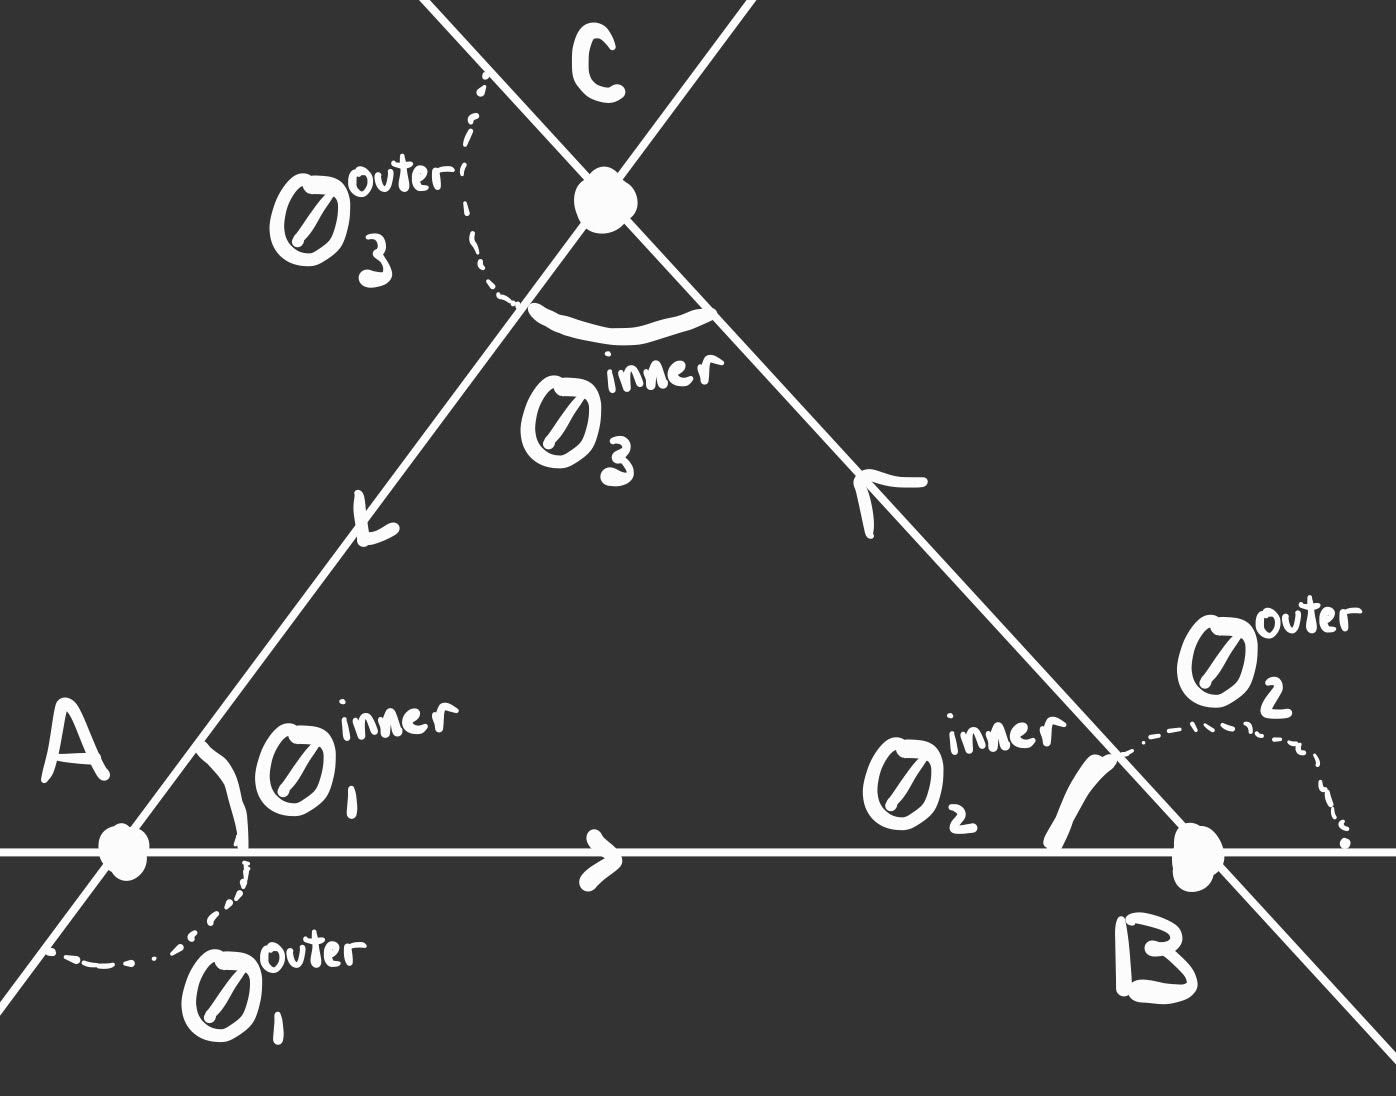
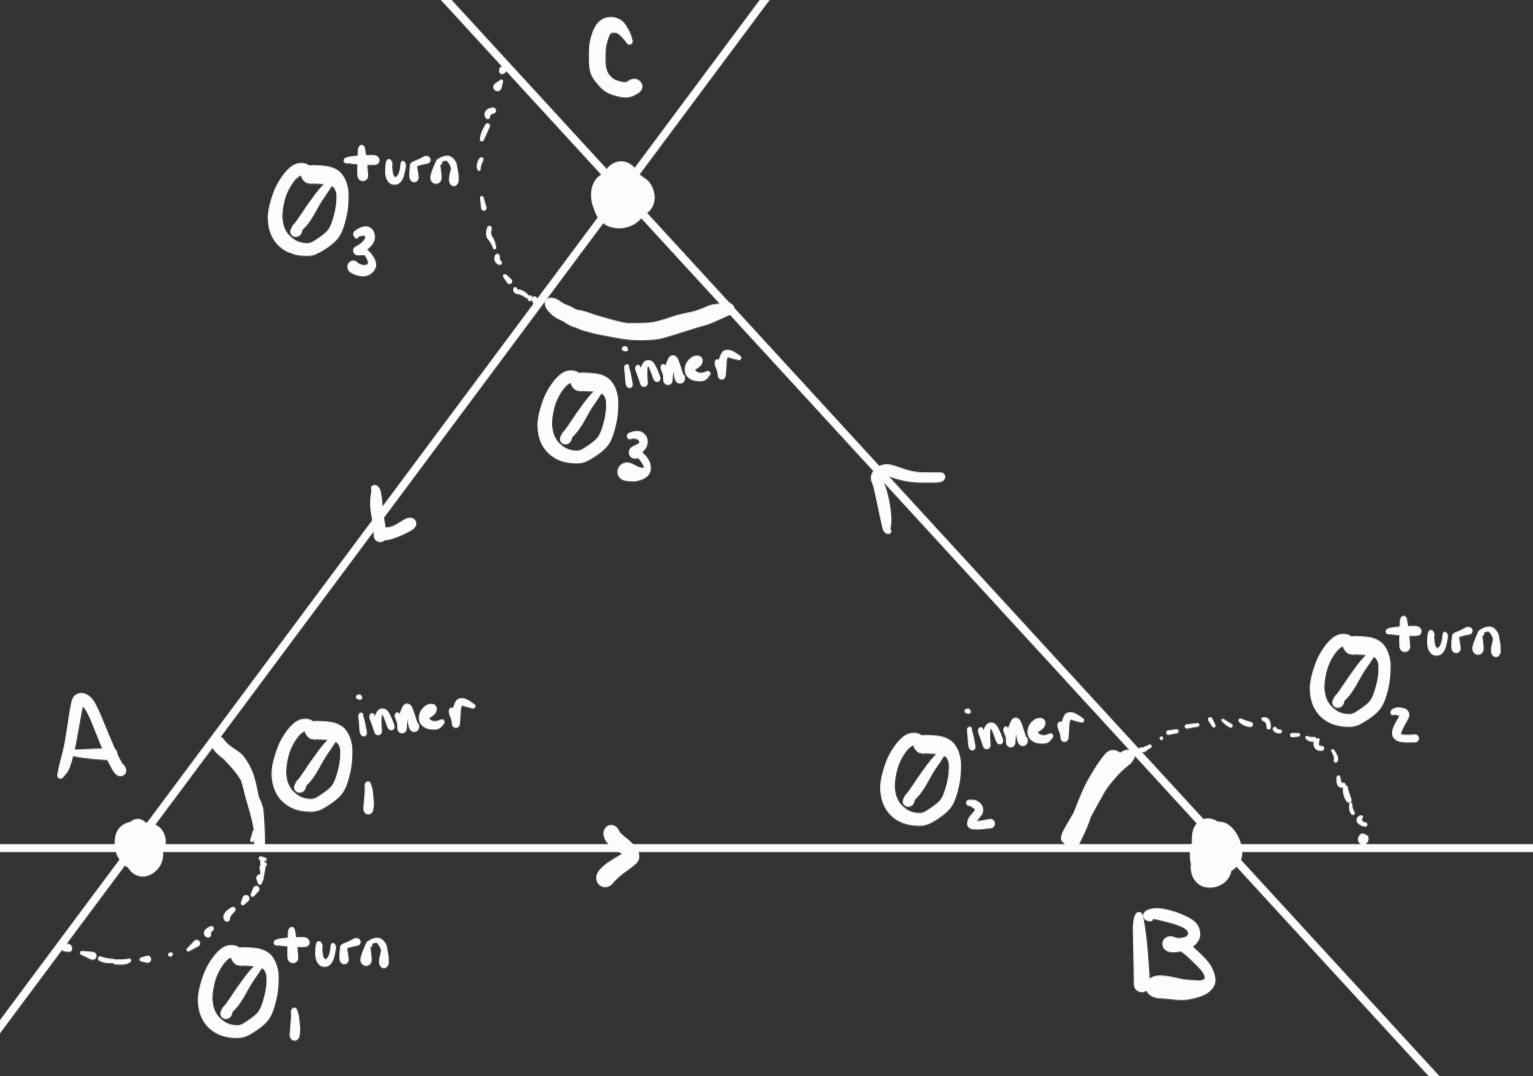
outer to turn angles

diff --git a/content/Math/Sum of inner angles of polygon.md b/content/Math/Sum of inner angles of polygon.md
@@ -19,33 +19,33 @@ First, consider a triangle described by the points $A,B,C$, with respective inne
 
 ![triangle_inner_angles](media/triangle_inner_angles.jpg)
 
-We have also written out the outer angles, $\theta_1^\text{outer}, \theta_2^\text{outer}, \theta_3^\text{outer}$, by extending out the lines of the triangle. The outer and inner angles are supplementary, meaning each pair of inner/outer angles sums to $180$:
+We have also written out the turn angles, $\theta_1^\text{turn}, \theta_2^\text{turn}, \theta_3^\text{turn}$, by extending out the lines of the triangle. The turn and inner angles are supplementary, meaning each pair of inner/turn angles sums to $180$:
 
 $$
 \begin{align}
-\theta_{i}^{\text{inner}} + \theta_{i}^{\text{outer}} &= 180 && \forall i \in \{1,2,3\}  &&& \text{(Def. of supplementary angles)} \\
-\implies \theta_{i}^{\text{outer}} &= 180 - \theta_{i}^{\text{inner}} && \text{(Rearrange equation)}
+\theta_{i}^{\text{inner}} + \theta_{i}^{\text{turn}} &= 180 && \forall i \in \{1,2,3\}  &&& \text{(Def. of supplementary angles)} \\
+\implies \theta_{i}^{\text{turn}} &= 180 - \theta_{i}^{\text{inner}} && \text{(Rearrange equation)}
 \end{align}
 $$
 
-Additionally, we know the sum of the outer angles equals $360 \degree$. We will prove this by considering a person walking the entire perimeter of the shape counter-clockwise (i.e., always heading in the direction of the arrows on the triangle edges), and turning $\theta_i^\text{outer}$ degrees at each point:
+Additionally, we know the sum of the turn angles equals $360 \degree$. We will prove this by considering a person walking the entire perimeter of the shape counter-clockwise (i.e., always heading in the direction of the arrows on the triangle edges), and turning $\theta_i^\text{turn}$ degrees at each point:
 - First, the person standing at point $A$, and facing towards point $B$, and the total degrees they have turned is $0$. 
-- They will walk towards $B$, and then turn towards point $C$ by turning counter-clockwise $\theta_2^\text{outer}$ degrees. Therefore, the total degrees turned is now $\theta_2^\text{outer}$. 
-- They will next walk towards $C$, and then turn towards point $A$ by turning counter-clockwise $\theta_3^\text{outer}$ degrees. Therefore, the total degrees turned is now $\theta_2^\text{outer} +\theta_3^\text{outer}$.
-- They will last walk towards $A$, and then turn towards point $B$ by turning counter-clockwise $\theta_1^\text{outer}$ degrees. The person has now walked the entire perimeter and turned  a total degrees of $\theta_2^\text{outer} +\theta_3^\text{outer} + \theta_1^\text{outer}$.
-Not only is the person back at the starting point after all three outer turns, but they are also facing the same direction they started. Because each turn was counter-clockwise (so each turn positively contributes to the total turn) and that the shape is a polygon (so no lines cross-over), ending up facing the same orientation as we started means the person spun a total of $360 \degree$. Therefore, we conclude that:
+- They will walk towards $B$, and then turn towards point $C$ by turning counter-clockwise $\theta_2^\text{turn}$ degrees. Therefore, the total degrees turned is now $\theta_2^\text{turn}$. 
+- They will next walk towards $C$, and then turn towards point $A$ by turning counter-clockwise $\theta_3^\text{turn}$ degrees. Therefore, the total degrees turned is now $\theta_2^\text{turn} +\theta_3^\text{turn}$.
+- They will last walk towards $A$, and then turn towards point $B$ by turning counter-clockwise $\theta_1^\text{turn}$ degrees. The person has now walked the entire perimeter and turned  a total degrees of $\theta_2^\text{turn} +\theta_3^\text{turn} + \theta_1^\text{turn}$.
+Not only is the person back at the starting point after all three turn turns, but they are also facing the same direction they started. Because each turn was counter-clockwise (so each turn positively contributes to the total turn) and that the shape is a polygon (so no lines cross-over), ending up facing the same orientation as we started means the person spun a total of $360 \degree$. Therefore, we conclude that:
 
 $$
 \begin{align}
-\theta_{1}^\text{outer} + \theta_{2}^\text{outer} + \theta_{3}^\text{outer} &= 360 && \text{(Constraint on outer angles)}
+\theta_{1}^\text{turn} + \theta_{2}^\text{turn} + \theta_{3}^\text{turn} &= 360 && \text{(Constraint on turn angles)}
 \end{align}
 $$
 
-We can now substitute in our rearranged version of the definition of supplementary angles into the constraint on outer angles equation. Here, I will use $n=3$ to represent the number of sides/inner angles of a triangle:
+We can now substitute in our rearranged version of the definition of supplementary angles into the constraint on turn angles equation. Here, I will use $n=3$ to represent the number of sides/inner angles of a triangle:
 
 $$
 \begin{align}
-\sum_{i=1}^{n} \theta_{i}^\text{outer} &= 360 && \text{Outer angle constraint equation)}\\
+\sum_{i=1}^{n} \theta_{i}^\text{turn} &= 360 && \text{turn angle constraint equation)}\\
 \sum_{i=1}^{n} (180-  \theta_{i}^\text{inner}) &= 360 && \text{(Substitution)}\\
 180n + \sum_{i=1}^{n} (- \theta_{i}^\text{inner}) &= 360 && \text{(Factor out 180)}\\
 \sum_{i=1}^{n}  \theta_{i}^\text{inner} &= -360 +180n && \text{(Rearrange)}\\
